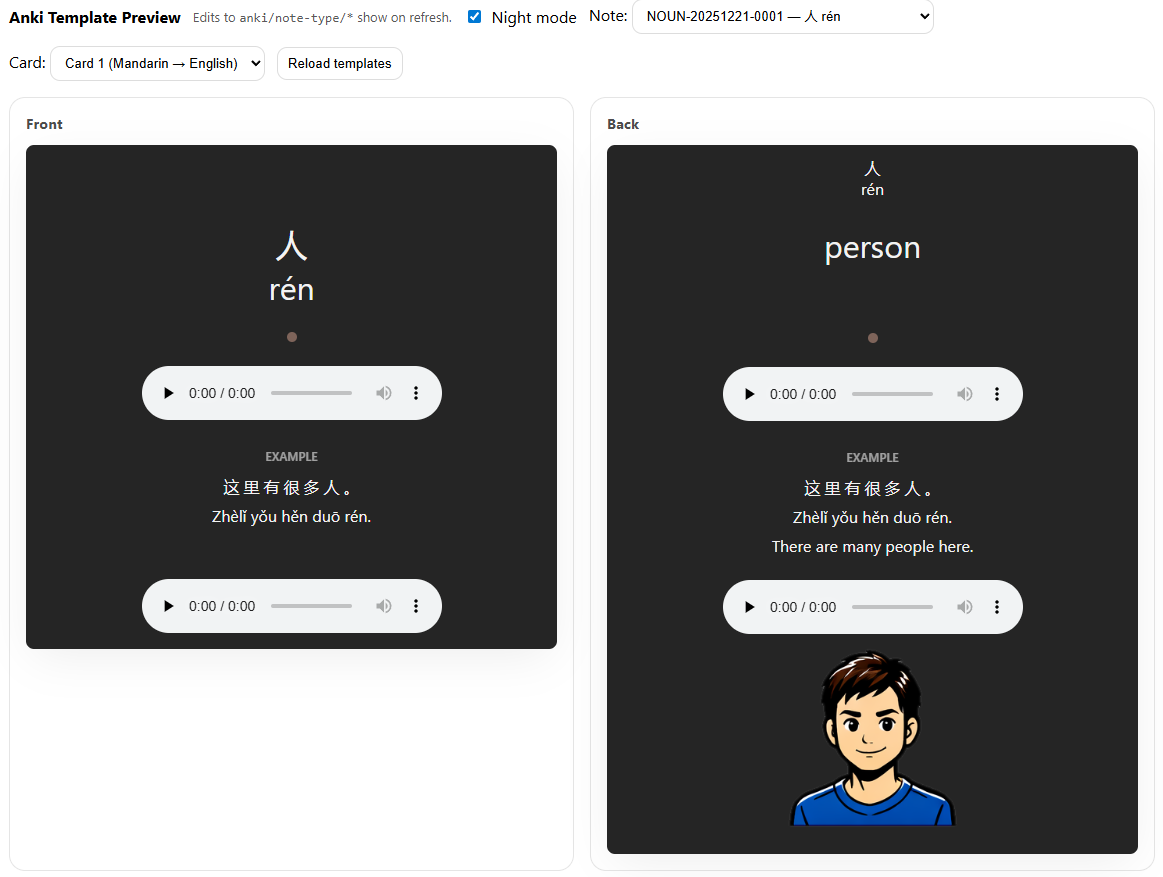
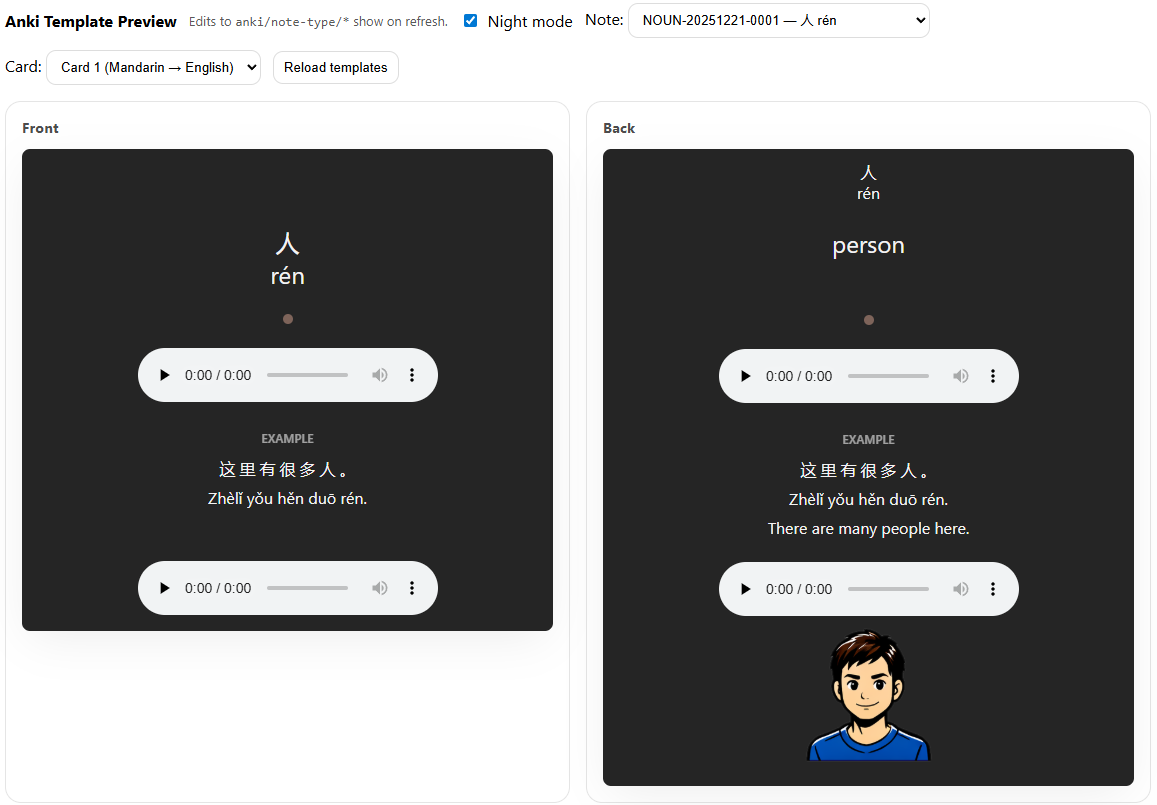
updates

diff --git a/anki/note-type/styling.css b/anki/note-type/styling.css
@@ -52,12 +52,12 @@
 }
 
 .center-text-1 {
-  font-size: 32px;
+  font-size: 24px;
   font-weight: 400;
 }
 
 .center-text-2 {
-  font-size: 32px;
+  font-size: 24px;
   font-weight: 400;
 }
 
@@ -70,7 +70,7 @@
 }
 
 .bottom {
-  max-width: 90%;
+  max-width: 98%;
 }
 
 .example {
@@ -107,7 +107,7 @@
 
 .image img {
   max-width: 90%;
-  max-height: 200px;
+  max-height: 150px;
   border-radius: 8px;
 }
 
